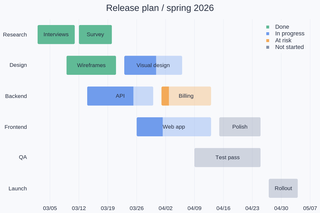
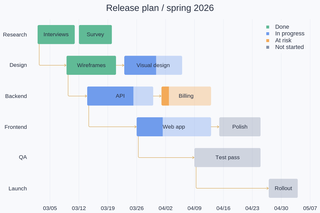
Draw dependency links in the Gantt gallery and keep their accent under themes (#357)
The gantt scene and gallery-gantt.png gain RangeLinks dependencies, so
no shipped image draws links with Arrow annotations. A link between two
tasks on one row now runs straight from the first's end, so no stroke
shows through a bar's translucent unfinished part. Themes and colour
cycles no longer recolour links: the waterfall connector's thin dark
line and a palette colour both read worse than the link's own accent.

Claude-Session: https://claude.ai/code/session_01LMyJRDX46rebgudJuoEMAG

diff --git a/crates/renderer/examples/range_bars.rs b/crates/renderer/examples/range_bars.rs
@@ -9,8 +9,9 @@
 //!   down colours read from the given ends, and the host's 20-day moving average
 //!   as a line.
 //! - `gantt` writes `gallery-gantt.png`: a release plan as horizontal bars on a
-//!   date axis, a state column choosing each task's colour and a progress
-//!   column shading the finished part.
+//!   date axis, a state column choosing each task's colour, a progress
+//!   column shading the finished part, and dependency links between the
+//!   tasks (`SeriesConfig::range_links`).
 //! - `timeline` writes `timeline.png` and `timeline@2x.png`: the default
 //!   timeline look (#357) without a theme, `SeriesConfig::timeline_bars` on
 //!   `default::default_calendar_timeline_config` (a month header over Monday
@@ -253,7 +254,8 @@ fn candlestick(r: &mut Renderer, out: &Path) -> Result {
 }
 
 // A Gantt chart: tasks on workstream rows over a date axis, coloured by a
-// state column, their finished part shaded by a progress column.
+// state column, their finished part shaded by a progress column, joined by
+// their dependency links.
 fn gantt(r: &mut Renderer, out: &Path) -> Result {
     let theme = ThemeFamily::CoolSlate.theme(ChartKind::RangeBars);
     let bg = background(&theme);
@@ -335,7 +337,29 @@ fn gantt(r: &mut Renderer, out: &Path) -> Result {
         ..TimestampLabelFormat::default()
     });
     chart.set_x_range(T0 - 2.0 * DAY, T0 + 66.0 * DAY);
-    let mut specs = [bars];
+    // Finish-to-start dependencies between the tasks above (rows of the
+    // task columns), routed between the bars on every draw (#357). Listed
+    // before the bars, so the bars cover the link ends.
+    let links = [
+        (0, 2),
+        (2, 3),
+        (2, 4),
+        (4, 5),
+        (4, 6),
+        (6, 7),
+        (6, 8),
+        (8, 9),
+    ];
+    r.add_column(
+        "gt-link-from",
+        &links.iter().map(|l| l.0 as f64).collect::<Vec<_>>(),
+    )?;
+    r.add_column(
+        "gt-link-to",
+        &links.iter().map(|l| l.1 as f64).collect::<Vec<_>>(),
+    )?;
+    let dependencies = SeriesConfig::range_links("links", "tasks", "gt-link-from", "gt-link-to");
+    let mut specs = [dependencies, bars];
     themed(&mut chart, &theme, &mut specs)?;
     for (label, color) in states.iter().zip(&theme.series.range_bars.states) {
         chart = chart.with_legend_swatch(label, *color);

diff --git a/crates/model/src/preset.rs b/crates/model/src/preset.rs
@@ -592,7 +592,6 @@ fn cycle_color(series: &SeriesConfig) -> Option<Color> {
         DataRenderType::CategoryBars(CategoryBarSeries { color, .. })
         | DataRenderType::BoxPlot(BoxSeries { color, .. })
         | DataRenderType::RangeBars(RangeBarSeries { color, .. })
-        | DataRenderType::RangeLinks(crate::data_config::RangeLinkSeries { color, .. })
         | DataRenderType::Radar(RadarPolygonSeries { color, .. }) => see(*color),
         DataRenderType::Ternary(TernarySeries { scatter, line, .. }) => {
             if let Some(scatter) = scatter {
@@ -609,7 +608,9 @@ fn cycle_color(series: &SeriesConfig) -> Option<Color> {
         | DataRenderType::TriMesh(_)
         | DataRenderType::RgbImage(_)
         | DataRenderType::EnergyLevels(_)
-        | DataRenderType::Feynman(_) => {}
+        | DataRenderType::Feynman(_)
+        // Dependency links keep their own accent (#357).
+        | DataRenderType::RangeLinks(_) => {}
     }
     found.filter(|_| same)
 }
@@ -686,10 +687,12 @@ pub(crate) fn recolor_series(series: &mut SeriesConfig, c: Color) {
         }
         // The series fill joins the cycle; direction and state colours
         // stay, since they carry the bars' meaning.
-        DataRenderType::RangeBars(RangeBarSeries { color, .. })
-        | DataRenderType::RangeLinks(crate::data_config::RangeLinkSeries { color, .. }) => {
+        DataRenderType::RangeBars(RangeBarSeries { color, .. }) => {
             *color = c;
         }
+        // Dependency links keep their own accent (#357): a cycle colour
+        // would read as one more task series.
+        DataRenderType::RangeLinks(_) => {}
         // The outline and markers join the cycle, and the fill follows
         // them unless the style names its own.
         DataRenderType::Radar(RadarPolygonSeries { color, .. }) => {

diff --git a/crates/model/src/helpers/theme.rs b/crates/model/src/helpers/theme.rs
@@ -1619,11 +1619,6 @@ impl Theme {
             | DataRenderType::RgbImage(_)
             | DataRenderType::RangeLinks(_) => {}
         }
-        // Dependency links take the connector's colour and width (#357).
-        if let DataRenderType::RangeLinks(links) = &mut series.render_type {
-            links.color = theme.range_bars.connector_color;
-            links.width = theme.range_bars.connector_width;
-        }
         if let DataRenderType::RangeBars(RangeBarSeries {
             whiskers,
             color_by,

diff --git a/CHANGELOG.md b/CHANGELOG.md
@@ -387,7 +387,7 @@ and radar documents' `text_sizes`) are additive.
 
 ### Model (`figgy-model` 0.13.0)
 
-- **Dependency links for range bars** ([#357](https://github.com/shim9610/figgy/issues/357), item 14 D). New series kind `DataRenderType::RangeLinks(RangeLinkSeries { bars, color, width, head, inset })`: link `i` joins the bar of row `x_column[i]` to the bar of row `y_column[i]` of the range bar series `bars`, finish to start. The rows come from the host through `ColumnSource`; nothing caps the links. New helper `SeriesConfig::range_links(id, bars, from, to)` in the web Gantt look: amber `#D4A24C`, 1.5 px, a 6 px open chevron, leaving 6 px from the predecessor's start. List links before their bars so the bars cover the link ends. Rules: `RangeLinkBars` (the bars must be a range bar series in the link series' layer), `RangeLinkColumns` (two set, distinct columns), `RangeLinkStyle` (width `0..=24`, head `0..=32`, inset `0..=64`, colour channels in `0..=1`), `PolarRangeLinks` and `StreamedRangeLinks`. `step_selection` moves a picked link along its rows by `dx + dy`, bounded by the shorter column; a theme gives links its connector colour and width; the legend draws them as a line. The key is additive. `DataRenderType` gains a variant: an exhaustive `match` on it adds a `DataRenderType::RangeLinks(_)` arm. Tests: `range_links_name_bars_in_their_layer_and_validate_their_style`, `step_selection_walks_range_links_by_row` (3000 links), `range_links_round_trip`.
+- **Dependency links for range bars** ([#357](https://github.com/shim9610/figgy/issues/357), item 14 D). New series kind `DataRenderType::RangeLinks(RangeLinkSeries { bars, color, width, head, inset })`: link `i` joins the bar of row `x_column[i]` to the bar of row `y_column[i]` of the range bar series `bars`, finish to start. The rows come from the host through `ColumnSource`; nothing caps the links. New helper `SeriesConfig::range_links(id, bars, from, to)` in the web Gantt look: amber `#D4A24C`, 1.5 px, a 6 px open chevron, leaving 6 px from the predecessor's start. List links before their bars so the bars cover the link ends. Rules: `RangeLinkBars` (the bars must be a range bar series in the link series' layer), `RangeLinkColumns` (two set, distinct columns), `RangeLinkStyle` (width `0..=24`, head `0..=32`, inset `0..=64`, colour channels in `0..=1`), `PolarRangeLinks` and `StreamedRangeLinks`. `step_selection` moves a picked link along its rows by `dx + dy`, bounded by the shorter column; a theme keeps a link's own look (its waterfall connector colour is too dark and thin for a dependency); the legend draws them as a line. The key is additive. `DataRenderType` gains a variant: an exhaustive `match` on it adds a `DataRenderType::RangeLinks(_)` arm. Tests: `range_links_name_bars_in_their_layer_and_validate_their_style`, `step_selection_walks_range_links_by_row` (3000 links), `range_links_round_trip`.
 
 - **Calendar header for time axes** ([#357](https://github.com/shim9610/figgy/issues/357), item 14 B). `TimestampLabelFormat` gains two serde-defaulted fields, omitted when unset:
   - `step: Option<CalendarStep>`: `Day`, `Week { start: Weekday }`, `Month`, `Quarter` or `Year`. The ticks fall at every boundary of the unit at local midnight in the format's time zone. `tick_policy` and `major_spacing` are not read, and a range of more than 1000 periods draws no ticks, as the planner's.
@@ -1950,7 +1950,7 @@ and radar documents' `text_sizes`) are additive.
 
 ### Renderer (`figgy-renderer` 0.19.0)
 
-- **Dependency links for range bars** ([#357](https://github.com/shim9610/figgy/issues/357), item 14 D). The bar module splices a new input fragment, `common/range_links.wgsl` (approved on #357), after `range_bars.wgsl`. A link series binds the group 3 of the range bar series it names, with six more lane-table entries (the two row columns, the count, and the width, head and inset in render pixels), so a link always meets the bars as they are drawn. Each link is routed on every draw in the web Gantt convention: out of the predecessor's edge facing the successor, a small inset from its start, across to the successor's centre line through one rounded corner, and into its start with an open chevron. When the successor starts first, the exit moves back, so a route never turns back through a bar. Links from one bar share their trunk. One quad per link covers the route by distance, and nothing per link is stored. Two new precise pipelines (`RangeLink`, `RangeLinkSelection`) and a pick kernel (`pick_range_links`) answer `PickedData::HistogramBin` for the link's own series and row. The picked highlight redraws the route wider in the selection colour (the bar selection layer now carries its vertex count). Links draw on overlays and subplots and export to PNG at any scale and to SVG and PDF. A streamed source is refused. The `timeline` scene of `examples/range_bars.rs` draws its links with this series in place of `Arrow` elbows. Tests (`range_bars_render.rs`): `range_links_route_between_their_bars_and_keep_every_interaction` (routes, pick, highlight, `step_selection`, 1x and 2x, SVG, PDF, serde), `range_links_draw_on_overlays_and_subplots` and `three_thousand_links_draw_and_pick`; the `range links` row of `streamed_series_are_rejected_per_family`.
+- **Dependency links for range bars** ([#357](https://github.com/shim9610/figgy/issues/357), item 14 D). The bar module splices a new input fragment, `common/range_links.wgsl` (approved on #357), after `range_bars.wgsl`. A link series binds the group 3 of the range bar series it names, with six more lane-table entries (the two row columns, the count, and the width, head and inset in render pixels), so a link always meets the bars as they are drawn. Each link is routed on every draw in the web Gantt convention: out of the predecessor's edge facing the successor, a small inset from its start, across to the successor's centre line through one rounded corner, and into its start with an open chevron. When the successor starts first, the exit moves back, so a route never turns back through a bar. Links from one bar share their trunk. One quad per link covers the route by distance, and nothing per link is stored. Two new precise pipelines (`RangeLink`, `RangeLinkSelection`) and a pick kernel (`pick_range_links`) answer `PickedData::HistogramBin` for the link's own series and row. The picked highlight redraws the route wider in the selection colour (the bar selection layer now carries its vertex count). Links draw on overlays and subplots and export to PNG at any scale and to SVG and PDF. A streamed source is refused. The `timeline` scene of `examples/range_bars.rs` draws its links with this series in place of `Arrow` elbows, and the `gantt` scene and `gallery-gantt.png` gain dependency links. Tests (`range_bars_render.rs`): `range_links_route_between_their_bars_and_keep_every_interaction` (routes, pick, highlight, `step_selection`, 1x and 2x, SVG, PDF, serde), `range_links_draw_on_overlays_and_subplots` and `three_thousand_links_draw_and_pick`; the `range links` row of `streamed_series_are_rejected_per_family`.
 
 - **Calendar headers** ([#357](https://github.com/shim9610/figgy/issues/357), item 14 B). The tick-label emit places a timestamp axis' labels at the plan's label positions, so period labels and the host's relative or custom strings draw, hit, select and drag as the axis' tick-label element, in PNG at any scale and in SVG and PDF. No shader or new path changes. The `timeline` scene of `examples/range_bars.rs` uses the calendar header. Tests (`tests/calendar_axis.rs`): `the_month_header_centres_each_month_and_the_weeks_start_on_monday`, `period_labels_hit_select_and_drag_as_tick_labels`, `relative_and_custom_labels_follow_the_origin` (10 000 custom strings), `the_header_draws_at_1x_and_2x_and_round_trips`.
 

diff --git a/crates/renderer/examples/README.md b/crates/renderer/examples/README.md
@@ -73,7 +73,7 @@ file name. To refresh an image, run the example's command from
 | <img src="https://raw.githubusercontent.com/shim9610/figgy/master/crates/renderer/assets/gallery-raincloud.png" width="160" alt="Raincloud plot of commute times"> | `gallery-raincloud.png` | [boxplot_gallery.rs](boxplot_gallery.rs), `raincloud` | Horizontal rainclouds of commute time by mode: the host's half violin above a quartile box, the raw samples jittered below |
 | <img src="https://raw.githubusercontent.com/shim9610/figgy/master/crates/renderer/assets/gallery-waterfall.png" width="160" alt="Profit bridge waterfall"> | `gallery-waterfall.png` | [range_bars.rs](range_bars.rs), `waterfall` | A profit bridge: the host's running totals as start and end columns, increases and decreases coloured by direction, subtotal and totals flagged, connectors between the steps |
 | <img src="https://raw.githubusercontent.com/shim9610/figgy/master/crates/renderer/assets/gallery-candlestick.png" width="160" alt="Candlestick chart with a moving average"> | `gallery-candlestick.png` | [range_bars.rs](range_bars.rs), `candlestick` | 64 days of synthetic prices on a date axis: open–close bodies, low–high wicks and the host's 20-day moving average |
-| <img src="https://raw.githubusercontent.com/shim9610/figgy/master/crates/renderer/assets/gallery-gantt.png" width="160" alt="Gantt chart of a release plan"> | `gallery-gantt.png` | [range_bars.rs](range_bars.rs), `gantt` | A release plan on six rows over a date axis: a state column colours each task and a progress column shades its finished part |
+| <img src="https://raw.githubusercontent.com/shim9610/figgy/master/crates/renderer/assets/gallery-gantt.png" width="160" alt="Gantt chart of a release plan"> | `gallery-gantt.png` | [range_bars.rs](range_bars.rs), `gantt` | A release plan on six rows over a date axis: a state column colours each task, a progress column shades its finished part, and dependency links (`RangeLinks`) join the tasks |
 | <img src="https://raw.githubusercontent.com/shim9610/figgy/master/crates/renderer/assets/gallery-shapes.png" width="160" alt="Flow cytometry gates as shape annotations"> | `gallery-shapes.png` | [overlay_axes.rs](overlay_axes.rs), `shapes` | 4000 flow cytometry events with shape annotations as gates: an ellipse, a rectangle, a polygon and a dashed outline, labelled in text boxes |
 | <img src="https://raw.githubusercontent.com/shim9610/figgy/master/crates/renderer/assets/gallery-stem.png" width="160" alt="Stem plot of a filter impulse response"> | `gallery-stem.png` | [stem.rs](stem.rs), `impulse_response` | The 41 taps of a windowed-sinc low-pass filter as stems from zero, over the ideal sinc they approximate |
 | <img src="https://raw.githubusercontent.com/shim9610/figgy/master/crates/renderer/assets/gallery-lollipop.png" width="160" alt="Ranked lollipop chart"> | `gallery-lollipop.png` | [stem.rs](stem.rs), `lollipop` | A ranked lollipop chart of tree canopy change in twelve districts: horizontal stems from zero on a categorical axis |

diff --git a/crates/renderer/GALLERY.md b/crates/renderer/GALLERY.md
@@ -109,7 +109,7 @@ Each 0.19 chart kind has a designed scene drawn by its example in a theme family
 | `gallery-raincloud.png` | [boxplot_gallery.rs](examples/boxplot_gallery.rs), `raincloud` | `warm-paper` | Horizontal rainclouds of commute time by mode: the host's half violin above a quartile box, the raw samples jittered below |
 | `gallery-waterfall.png` | [range_bars.rs](examples/range_bars.rs), `waterfall` | `warm-paper` | A profit bridge: the host's running totals as start and end columns, increases and decreases coloured by direction, subtotal and totals flagged, connectors between the steps |
 | `gallery-candlestick.png` | [range_bars.rs](examples/range_bars.rs), `candlestick` | `midnight` | 64 days of synthetic prices on a date axis: open–close bodies, low–high wicks and the host's 20-day moving average |
-| `gallery-gantt.png` | [range_bars.rs](examples/range_bars.rs), `gantt` | `cool-slate` | A release plan on six rows over a date axis: a state column colours each task and a progress column shades its finished part |
+| `gallery-gantt.png` | [range_bars.rs](examples/range_bars.rs), `gantt` | `cool-slate` | A release plan on six rows over a date axis: a state column colours each task, a progress column shades its finished part, and dependency links (`RangeLinks`) join the tasks |
 | `gallery-shapes.png` | [overlay_axes.rs](examples/overlay_axes.rs), `shapes` | `cool-slate` | 4000 flow cytometry events with shape annotations as gates: an ellipse, a rectangle, a polygon and a dashed outline, labelled in text boxes |
 | `gallery-stem.png` | [stem.rs](examples/stem.rs), `impulse_response` | `cool-slate` | The 41 taps of a windowed-sinc low-pass filter as stems from zero, over the ideal sinc they approximate |
 | `gallery-lollipop.png` | [stem.rs](examples/stem.rs), `lollipop` | `warm-paper` | A ranked lollipop chart of tree canopy change in twelve districts: horizontal stems from zero on a categorical axis |

diff --git a/crates/renderer/RANGEBARS.md b/crates/renderer/RANGEBARS.md
@@ -162,7 +162,8 @@ inset from its start, runs across to the successor's centre line, turns
 through one rounded corner and ends in an open chevron just before the
 successor's start. When the successor starts before that exit, the exit
 moves back to leave room for the head, so a link never turns back through
-a bar. Links leaving one bar share their trunk. A row that is missing,
+a bar. Links leaving one bar share their trunk, and a link between two
+tasks on one row runs straight from the first's end. A row that is missing,
 negative or past the bars' rows draws no link. List the links before their
 bars: a series draws in its place in the list, so the bars then cover the
 link ends.
@@ -170,7 +171,7 @@ link ends.
 | Field | Default (`range_links`) | Range |
 |---|---|---|
 | `bars` | the bars' `series_id` | a range bar series in the same layer (`RuleKind::RangeLinkBars`) |
-| `color` | amber `#D4A24C` | channels in `0..=1`; a theme sets its connector colour |
+| `color` | amber `#D4A24C` | channels in `0..=1`; a theme keeps it, since the waterfall connector's thin dark line does not read as a dependency |
 | `width` | 1.5 px | `0..=24` |
 | `head` | 6 px open chevron | `0..=32` |
 | `inset` | 6 px from the predecessor's start | `0..=64` |

diff --git a/crates/renderer/src/data_render/SHADER_COMMON.md b/crates/renderer/src/data_render/SHADER_COMMON.md
@@ -1945,8 +1945,9 @@ forward:
   start.
 - The head is an open chevron of two arms `head` pixels long.
 
-Links leaving one bar share their trunk. Bars on one centre line (a
-numeric position axis) get a straight link. A row that is NaN, negative or
+Links leaving one bar share their trunk. Bars on one centre line (tasks on
+one row) get a straight link out of the predecessor's last end, so no
+stroke runs inside a bar whose unfinished part is translucent. A row that is NaN, negative or
 past the bars' row count, or a bar that draws nothing, draws no link. The
 colour is the series' `Style` colour; nothing per link is stored. A link
 draws in its series' place in the list, so a host lists the links before

diff --git a/crates/renderer/gallery/ranges.md b/crates/renderer/gallery/ranges.md
@@ -37,7 +37,7 @@ A profit bridge: the host's running totals as start and end columns, increases a
 
 <a href="../examples/range_bars.rs"><img src="../assets/gallery-gantt.png" alt="Gantt chart of a release plan" width="760"></a>
 
-A release plan on six rows over a date axis: a state column colours each task and a progress column shades its finished part.
+A release plan on six rows over a date axis: a state column colours each task, a progress column shades its finished part, and dependency links (`RangeLinks`) join the tasks.
 
 **Code:** [range_bars.rs](../examples/range_bars.rs), `gantt`
 
